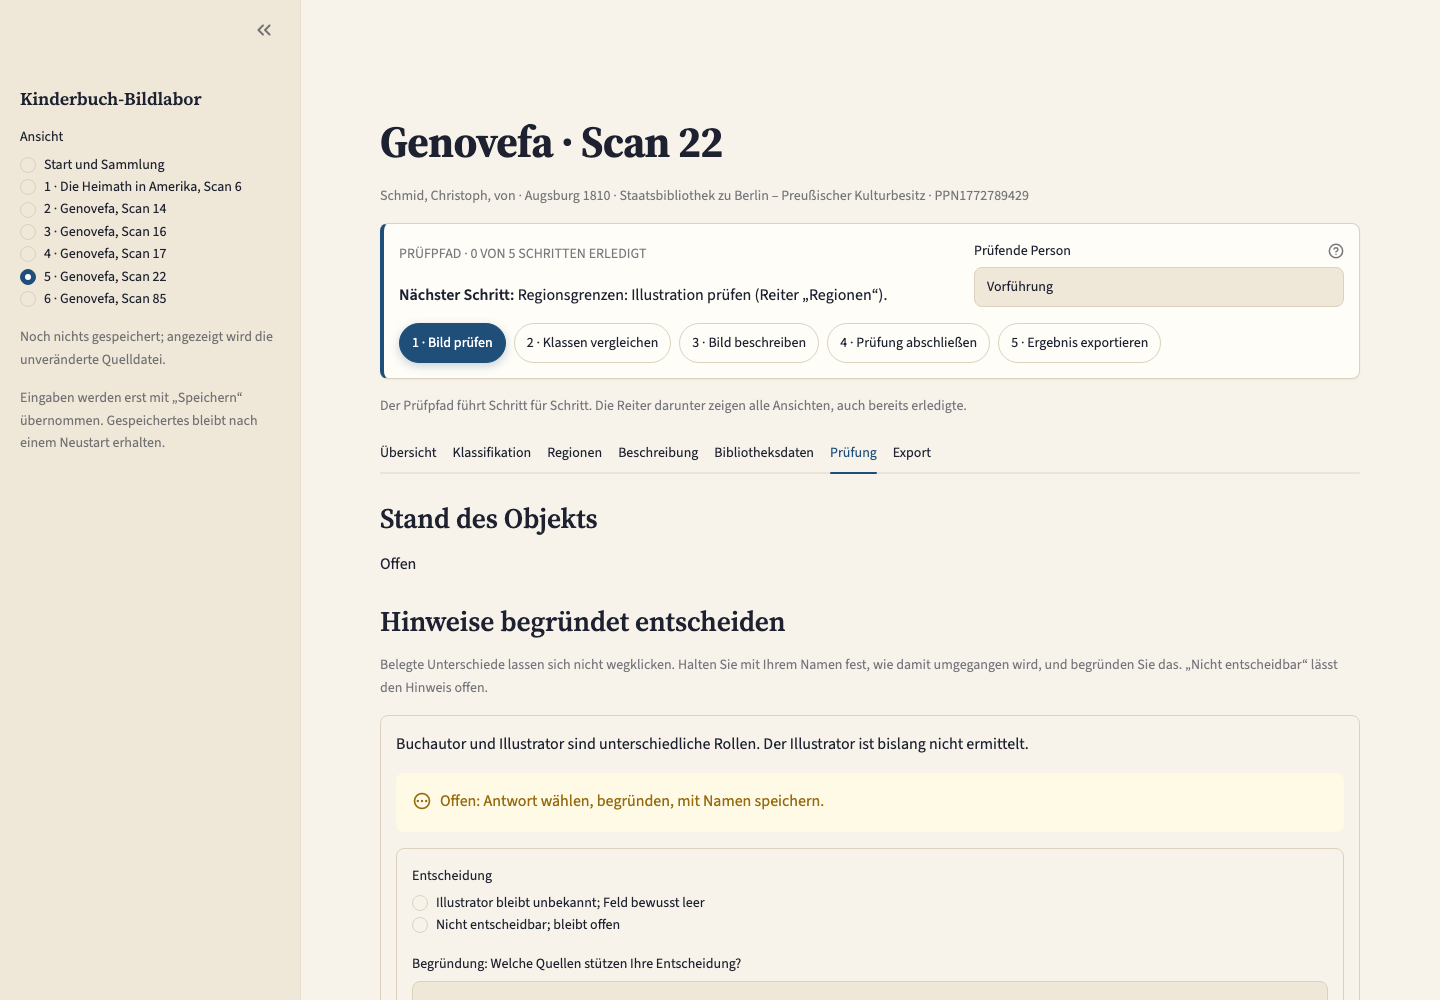
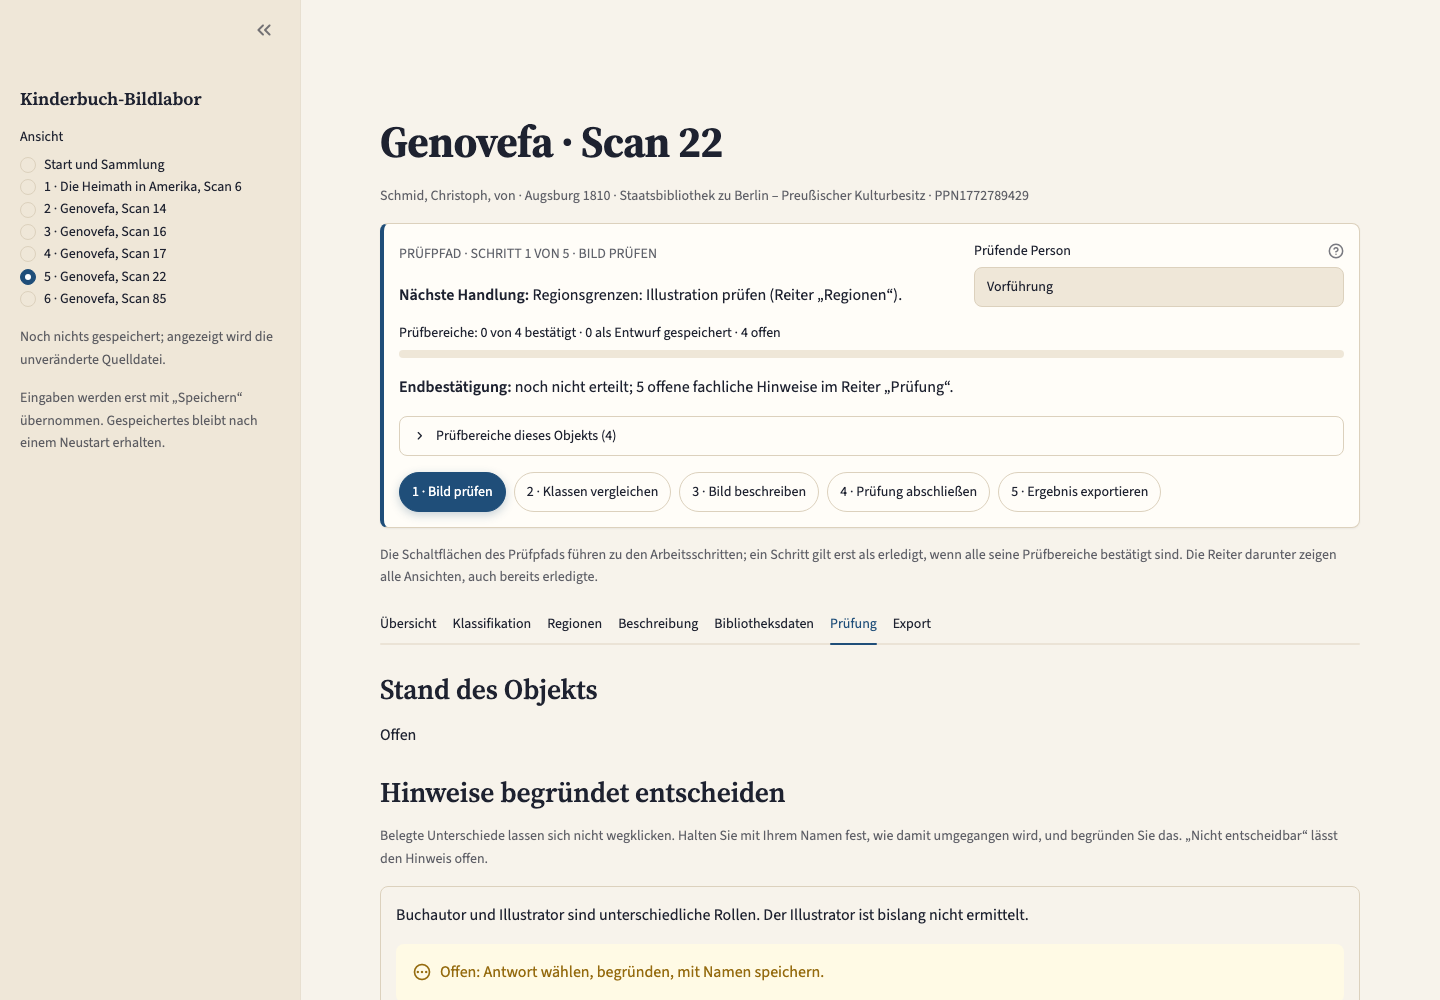
Endgültiges Beispiel Genovefa Scan 22 unverändert übernehmen; Dokumentation und Bildschirmfotos angleichen

diff --git a/docs/ergebnis/README.md b/docs/ergebnis/README.md
@@ -6,25 +6,42 @@ bis jemand im eigenen Datenordner prüft.
 
 | Datei | Inhalt | SHA-256 |
 |---|---|---|
[6 lines of base64/hex data omitted]
 
 ## Genovefa, Scan 22
 
-Geprüft im Arbeitsordner der bewerbenden Person, exportiert am 08.11.2026 um 12:27 Uhr. Der Export
-entspricht dem gespeicherten Arbeitsstand. Alle Einträge im Prüfprotokoll tragen den Namen „Shota“.
-Zeiten in Berliner Ortszeit:
+Geprüft im Arbeitsordner der bewerbenden Person, exportiert am 08.11.2026 um 19:11:25 Uhr. Der
+Export entspricht dem gespeicherten Arbeitsstand; seitdem wurde nichts gespeichert. Die
+Rückladeprüfung der Anwendung, rein lesend auf Export und Arbeitsstand angewendet, ergibt 6 von 6
+Prüfpunkten erhalten. Beide geltenden Entscheidungen und die Endbestätigung tragen den Namen
+„Shota Tsertsvadze“.
 
-| Zeit | Vorgang |
-|---|---|
-| 11:34 | Regionsgrenzen der Illustration bestätigt (Koordinaten unverändert: 229, 299, 924, 617) |
-| 11:36 | Klassifikation entschieden: „Manuelle Klasse trifft zu: Abbildung“. Begründung: „Manuelle Klasse trifft zu, es ist eine Abbildung.“ |
-| 11:37 | Bildbeschreibung bestätigt (Entwurf des KI-Assistenten, Text unverändert) |
-| 12:25 | Suchbegriffe bestätigt (Entwurf des KI-Assistenten, unverändert: Mann, Frau, Gewölbe, Treppe, Gitterfenster) |
-| 12:26 | Hinweis Illustrator entschieden: „Illustrator bleibt unbekannt; Feld bewusst leer“. Begründung: „test 2“ |
-| 12:26 | Endbestätigung erteilt |
+Geltender Stand:
+
+- Klassifikation: „Manuelle Klasse trifft zu: Abbildung“. Begründung: „Der Bildausschnitt zeigt zwei
+  Figuren in einem gewölbten Innenraum mit einer Treppe. Die szenische Darstellung spricht für die
+  Klasse „Abbildung“. Kartografische Merkmale sind im Ausschnitt nicht erkennbar.“
+- Illustrator: „Illustrator bleibt unbekannt; Feld bewusst leer“. Begründung: „Im geprüften
+  Bildausschnitt konnte ich keine eindeutige Angabe zum Illustrator erkennen. Die Zuschreibung bleibt
+  offen; das Feld bleibt daher leer. Weitere Quellen wurden von mir nicht geprüft.“
+- Regionsgrenzen (229, 299, 924, 617), Bildbeschreibung und Suchbegriffe (Mann, Frau, Gewölbe,
+  Treppe, Gitterfenster) sind bestätigt und entsprechen unverändert den Entwürfen.
+- Endbestätigung: Shota Tsertsvadze, 19:11 Uhr.
+
+Das Prüfprotokoll ist vollständig erhalten, auch mit früheren Namensangaben. Zeiten in Berliner
+Ortszeit:
+
+| Zeit | Name im Protokoll | Vorgang |
+|---|---|---|
+| 13:50–13:52 | shota | Regionsgrenzen, Bildbeschreibung und Suchbegriffe bestätigt; Klassifikation und Illustrator mit der Begründung „Entscheidung trifft zu“ entschieden; Endbestätigung |
+| 14:18–14:19 | ShotaTest | beide Entscheidungen mit den heute geltenden Begründungen neu festgehalten; Endbestätigung |
+| 19:02–19:11 | Shota Tsertsvadze | beide Entscheidungen unverändert erneut bestätigt (Illustrator zweimal); Endbestätigung zuletzt um 19:11 Uhr |
+
+Jede neue oder erneut bestätigte Entscheidung hat die vorige Endbestätigung aufgehoben. Auch diese
+Aufhebungen stehen im Protokoll.
 
 Das Beispiel zeigt, wie eine Entscheidung weitergegeben wird:
 - Beide Colibri-Werte bleiben unverändert erhalten (manuell „Abbildung“, automatisch „Karte“).
@@ -34,14 +51,16 @@ Das Beispiel zeigt, wie eine Entscheidung weitergegeben wird:
 
 ## Einschränkungen
 
-- Beide Begründungen stehen wörtlich so, wie sie gespeichert wurden. Die Begründung zur Klassifikation
-  wiederholt die gewählte Antwort und nennt keine Beobachtung am Bild. Die Begründung zum Illustrator
-  lautet „test 2“ und ist keine fachliche Begründung.
 - Die Endbestätigung ist keine Ground-Truth-Freigabe. Es gab keine Zweitprüfung durch eine andere
   Person.
+- Zum Illustrator wurden nach eigener Angabe nur der Bildausschnitt, keine weiteren Quellen geprüft.
+- Die Bestätigungen von Rahmen, Beschreibung und Suchbegriffe tragen im Protokoll den Namen „shota“.
+  Sie wurden nicht erneut bestätigt.
 - Geprüft ist nur Scan 22. Die Scans 14, 16, 17 und 85 sind offen (siehe [OFFENE_PUNKTE.md](../OFFENE_PUNKTE.md)).
 - Im JSON stehen die Herkunftsfelder in ihrem überlieferten Wortlaut, einschließlich „ungeprüft“. Der
   Prüfstand steht in den eigenen Statusfeldern; die CSV zeigt beides getrennt.
+- Das frühere Beispiel (Export vom 08.11.2026, 12:27 Uhr, aus einem anderen Arbeitsordner) ist durch
+  diesen Export ersetzt. Es bleibt in der Git-Geschichte (Commit `c13a701`) erhalten.
 
 ## Pilotobjekt „Die Heimath in Amerika“
 

diff --git a/docs/ABNAHME_2026-11-07.md b/docs/ABNAHME_2026-11-07.md
@@ -5,9 +5,49 @@
 Die Anwendung ist als lokale Vorführversion verwendbar. Der Bericht erteilt keine inhaltliche
 Freigabe und keine Ground-Truth-Freigabe. Geprüft und exportiert hat die bewerbende Person
 Genovefa, Scan 22 (Beispiel unter [ergebnis/](ergebnis/README.md)); die übrigen vier Genovefa-Scans
-sind offen. Die jüngsten Prüfungen stehen im Abschnitt „Übergabe 08.11.2026“.
+sind offen. Die jüngsten Prüfungen stehen im Abschnitt „Endgültiges Beispiel 08.11.2026“.
 
-## Übergabe 08.11.2026
+## Endgültiges Beispiel 08.11.2026
+
+**Quelle.** Export aus dem Arbeitsordner `~/bildlabor-bewerbung-3` der bewerbenden Person, von ihr
+am 08.11.2026 als endgültiges Beispiel bestätigt. Gelesen, ohne die Daten zu verändern (SHA-256 des
+Arbeitsordners vor und nach der Übernahme verglichen):
+
+- `genovefa-scan-022.json`, exportiert 2026-11-08T18:11:25Z (19:11:25 Uhr MEZ), SHA-256 `388cc6d2…06e6`;
+  byte-identisch zur von der bewerbenden Person heruntergeladenen Datei
+- `genovefa-scan-022.csv`, SHA-256 `f5444150…c39b`; Spalte `exportiert_am` gleich dem JSON-Export
+- Export gleich Arbeitsstand, keine spätere Speicherung; Rückladeprüfung der Anwendung, rein lesend
+  angewendet: 6 von 6 Prüfpunkten erhalten
+- beide Entscheidungen und die Endbestätigung von „Shota Tsertsvadze“; Begründungen wortgleich zum
+  Stand von 14:19 Uhr; alle früheren Protokolleinträge („shota“, „ShotaTest“) erhalten
+
+Beide Dateien liegen unverändert in [ergebnis/](ergebnis/README.md) und ersetzen das frühere
+Beispiel (12:27 Uhr, Abschnitt unten).
+
+**Geänderte Oberfläche** (gleicher Stand wie im Übergabe-ZIP):
+
+| Bereich | Änderung |
+|---|---|
+| Prüfpfad | aktueller Schritt, eine nächste Handlung, Zählung der Prüfbereiche des Objekts (bestätigt, als Entwurf gespeichert, offen), Endbestätigung getrennt; Transkriptionsfelder einzeln gezählt, wo vorhanden |
+| Speichern und Bestätigen | Rückmeldung neben dem Knopf; ein gespeicherter Entwurf wird ausdrücklich nicht als Prüfung bezeichnet |
+| Export | drei Stufen (vorbereiten, speichern, prüfen) mit Dateinamen, Ordner und Zeitpunkt; JSON und CSV einzeln herunterladbar; Prüfergebnis gilt für die Sitzung und genau die geprüfte Datei; neuer Export setzt es zurück |
+| Entscheidungen | ausdrückliche, unveränderte erneute Bestätigung mit der eingetragenen Person; hebt die Endbestätigung auf, Export gilt danach als veraltet |
+
+**Prüfungen am Arbeitsstand vor dem Paketbau** (macOS, alle Eingaben in temporären Datenordnern mit
+„Testperson Browser“):
+
+| Prüfung | Ergebnis |
+|---|---|
+| ruff, ruff format, mypy | ohne Befund (18 Quelldateien) |
+| pytest | 126 bestanden |
+| Browser: Prüfpfad an Scan 22 und Heimath (Bestätigung, Entwurf, Neuladen, Objektwechsel, Tastatur, 390 Pixel) | 16 von 16 Schritten |
+| Browser: Export (Downloads byte-identisch, Prüfen, neuer Export, Neuladen, veränderte Datei, Entwurf, Objektwechsel, 390 Pixel) | 20 von 20 Schritten |
+| Browser: erneute Bestätigung beider Entscheidungen, neue Endbestätigung, Export | 18 von 18 Schritten |
+
+Prüfungen am Übergabe-ZIP selbst, auch unter Windows, stehen außerhalb des ZIP in `PRUEFSUMME.txt`
+im Übergabeordner.
+
+## Übergabe 08.11.2026 (früheres Beispiel, ersetzt)
 
 **Quelle des Beispiels.** Export aus dem Arbeitsordner `~/bildlabor-bewerbung` der bewerbenden
 Person, gelesen ohne Start der Anwendung auf diesen Daten:
@@ -187,4 +227,5 @@ sowie das Pilotobjekt außer dem Titelrahmen (siehe [OFFENE_PUNKTE.md](OFFENE_PU
 
 Mehrere Serverprozesse auf demselben Datenordner sind nicht abgesichert. Live-Harvesting, neue
 OCR/HTR, XSD-Validierung, GND-Verknüpfungen, CER/WER und W3C-Web-Annotation-Export sind nicht
-implementiert. Unter Windows wurde nicht geprüft.
+implementiert. Dieser Bericht behauptet keine Windows-Tauglichkeit; ob und mit welchem Ergebnis am
+Übergabe-ZIP unter Windows geprüft wurde, steht in `PRUEFSUMME.txt` außerhalb des ZIP.

diff --git a/docs/OFFENE_PUNKTE.md b/docs/OFFENE_PUNKTE.md
@@ -11,7 +11,7 @@ Anwendung zeigt dagegen für jedes Objekt den Quellstand, also alles offen.
 
 | Objekt | Stand laut Export | Offen |
 |---|---|---|
-| Genovefa, Scan 22 (Leitbeispiel) | alle vier Prüfbereiche bestätigt, Klassifikation und Illustrator entschieden, endbestätigt (08.11.2026) | Die Begründungen sind knapp: zur Klassifikation ohne Beobachtung am Bild, zum Illustrator der Platzhalter „test 2“. Keine Zweitprüfung. |
+| Genovefa, Scan 22 (Leitbeispiel) | alle vier Prüfbereiche bestätigt, Klassifikation und Illustrator begründet entschieden, endbestätigt von Shota Tsertsvadze (08.11.2026) | Zum Illustrator nur der Bildausschnitt geprüft, keine weiteren Quellen. Rahmen, Beschreibung und Suchbegriffe tragen im Protokoll den Namen „shota“. Keine Zweitprüfung. |
 | Genovefa, Scan 14, 16, 17, 85 | kein Export, Quellstand | Regionsgrenzen, Klassifikation, Beschreibung, Suchbegriffe, Hinweis Illustrator; bei Scan 85 ist der Gegenstand der Person rechts im Entwurf als unsicher markiert |
 | Die Heimath in Amerika, Scan 6 | Region „Bildtitel“ bestätigt (06.11.2026) | Regionen „Illustration“ und „Verlagsangabe“, Beschreibung, beide Transkriptionen (Lesung „I.P.“ oder „L.P.“ Setzer), Hinweise Verlag und Illustrator |
 
@@ -25,7 +25,7 @@ vermutlich den gedruckten Zahlen; das ist nicht bestätigt, das Feld bleibt leer
 - Gedruckte Seitenzahl und Illustrator lassen sich in der Oberfläche nicht bearbeiten.
 - Koordinaten werden über Zahlenfelder bearbeitet (auch per Pfeiltaste), nicht durch Ziehen im Bild.
 - Unter etwa 650 Pixel Fensterbreite stehen Bild und Bearbeitung untereinander; dann ist mehr Blättern nötig.
-- Eine Entscheidung lässt sich ersetzen, aber nicht ersatzlos zurücknehmen; dafür den Arbeitsstand
+- Eine Entscheidung lässt sich ersetzen oder unverändert erneut bestätigen, aber nicht ersatzlos zurücknehmen; dafür den Arbeitsstand
   zurücksetzen (siehe README).
 
 ## Nicht umgesetzt (mögliche Erweiterungen)

diff --git a/docs/DEMO.md b/docs/DEMO.md
@@ -16,9 +16,10 @@ liegt unter [ergebnis/](ergebnis/README.md) und erscheint auf der Startseite.
 - Tabelle der Fallstudie: fünf Abbildungen aus „Genovefa“, manuell jeweils „Abbildung“, automatisch
   „Druckermarke“, „Exlibris“ oder „Karte“. Auswahlkriterium nennen: alle Zeilen dieses Buches mit
   manueller Klasse. Keine Aussage über Colibri insgesamt.
-- „Leitbeispiel öffnen“, dann im Prüfpfad einen Namen eintragen. Der hervorgehobene Schritt zeigt,
-  was als Nächstes zu prüfen ist; erledigte Schritte sind abgehakt. Nach jedem Speichern führt
-  „Weiter“ zum nächsten Schritt.
+- „Leitbeispiel öffnen“, dann im Prüfpfad einen Namen eintragen. Der Prüfpfad nennt den aktuellen
+  Schritt und die nächste Handlung; der Balken zählt die Prüfbereiche (bestätigt, als Entwurf
+  gespeichert, offen), getrennt davon steht die Endbestätigung. Erledigte Schritte sind abgehakt.
+  Nach jedem Speichern führt „Weiter“ zum nächsten Schritt.
 
 ## 0:30 – Leitbeispiel Scan 22, Reiter „Klassifikation“ (60 Sekunden)
 
@@ -51,8 +52,10 @@ liegt unter [ergebnis/](ergebnis/README.md) und erscheint auf der Startseite.
 
 ![Export](screenshots/05-export.png)
 
-- „JSON und CSV exportieren“, dann „Export erneut laden und prüfen“: alle Prüfpunkte, auch die
-  Entscheidungen, bleiben erhalten.
+- Drei Stufen: Export vorbereiten, Dateien speichern, Export prüfen. „JSON und CSV exportieren“
+  nennt Dateien, Ordner und Zeitpunkt und bietet beide Dateien einzeln zum Herunterladen an.
+  „Export erneut laden und prüfen“: alle Prüfpunkte, auch die Entscheidungen, bleiben erhalten. Die
+  Prüfung gilt für diese Sitzung und genau diese Datei; die CSV wird dabei nicht zurückgelesen.
 
 ## 2:30 – Zweites Beispiel: „Die Heimath in Amerika“ (30 Sekunden)
 

diff --git a/README.md b/README.md
@@ -51,9 +51,10 @@ ist nur auf diesem Rechner erreichbar. Beenden mit `Strg+C` im Terminal.
 ## Wo anfangen
 
 1. Auf der Startseite **„Leitbeispiel öffnen: Genovefa, Scan 22“** wählen.
-2. Im Prüfpfad unter „Prüfende Person“ einen Namen eintragen. Der Prüfpfad hebt den nächsten
-   offenen Schritt hervor und hakt erledigte ab. Nach jedem Speichern führt **„Weiter“** zum
-   nächsten Schritt; die Reiter bleiben zum Nachsehen erreichbar.
+2. Im Prüfpfad unter „Prüfende Person“ einen Namen eintragen. Der Prüfpfad nennt den aktuellen
+   Schritt und die nächste Handlung, zählt die Prüfbereiche des Objekts (bestätigt, als Entwurf
+   gespeichert, offen) und zeigt den Stand der Endbestätigung. Nach jedem Speichern führt
+   **„Weiter“** zum nächsten Schritt; die Reiter bleiben zum Nachsehen erreichbar.
 3. „Zweites Beispiel öffnen“ zeigt Verlagsangabe und OCR bei „Die Heimath in Amerika“.
 
 Begriffe wie *Endbestätigung* und *Ground Truth* erklärt die Startseite und die Stelle, an der sie

diff --git a/docs/adr/0005-begruendete-entscheidung-zu-hinweisen.md b/docs/adr/0005-begruendete-entscheidung-zu-hinweisen.md
@@ -14,7 +14,9 @@ Technische Fehler, fehlende Bereichsbestätigungen und nicht ausgeführte Prüfu
 entscheidbar. Eine Entscheidung gilt nur für den genauen Hinweistext und den Inhalt, auf dem sie beruht
 (Klassifikation: Regionsgrenzen der Illustration; Verlag: Lesung der Verlagsangabe; Illustrator: Feld
 Illustrator). Ändert sich dieser Inhalt, wird sie aufgehoben; Entscheidung und Aufhebung bleiben im
-Prüfprotokoll. Jede neue Entscheidung hebt eine Endbestätigung auf.
+Prüfprotokoll. Jede neue Entscheidung hebt eine Endbestätigung auf. Eine bestehende Entscheidung kann
+eine Person ausdrücklich und unverändert erneut bestätigen; dann gelten ihr Name und der neue
+Zeitpunkt, frühere Einträge bleiben im Protokoll, und auch das hebt eine Endbestätigung auf.
 
 Folgen: Die Klassifikation ist ein eigener Prüfbereich im Reiter „Klassifikation“. JSON enthält alle
 Entscheidungen samt Grundlage, CSV die Klassifikationsentscheidung je Illustration und die übrigen

diff --git a/docs/PROJEKTUEBERSICHT.md b/docs/PROJEKTUEBERSICHT.md
@@ -35,8 +35,9 @@ Alle Aussagen gelten nur für diese fünf Beispiele; sie sagen nichts über die 
 Gewölbe. Die automatische Klasse lautet „Karte“. Der Unterschied ist am Bild leicht nachvollziehbar.
 Die Entscheidung trifft trotzdem die prüfende Person, nicht die Anwendung.
 
-**Ergebnis für Scan 22:** Am 08.11.2026 geprüft und exportiert von „Shota“: Klassifikation
-„Manuelle Klasse trifft zu: Abbildung“, Illustrator bleibt unbekannt, Endbestätigung erteilt. Beide
+**Ergebnis für Scan 22:** Am 08.11.2026 geprüft und exportiert von Shota Tsertsvadze: Klassifikation
+„Manuelle Klasse trifft zu: Abbildung“ mit Begründung am Bild, Illustrator bleibt unbekannt,
+Endbestätigung erteilt. Beide
 Colibri-Werte bleiben als Quellenangaben erhalten. Export, Begründungen im Wortlaut und
 Einschränkungen: [ergebnis/](ergebnis/README.md).
 
